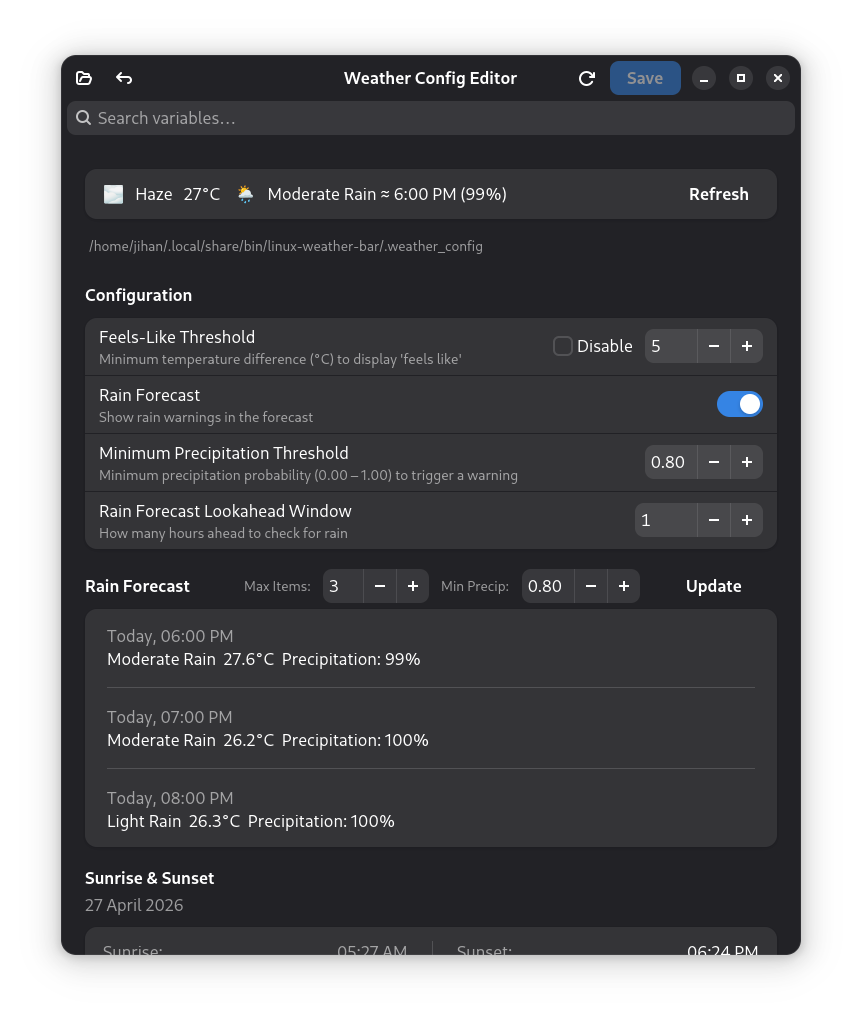
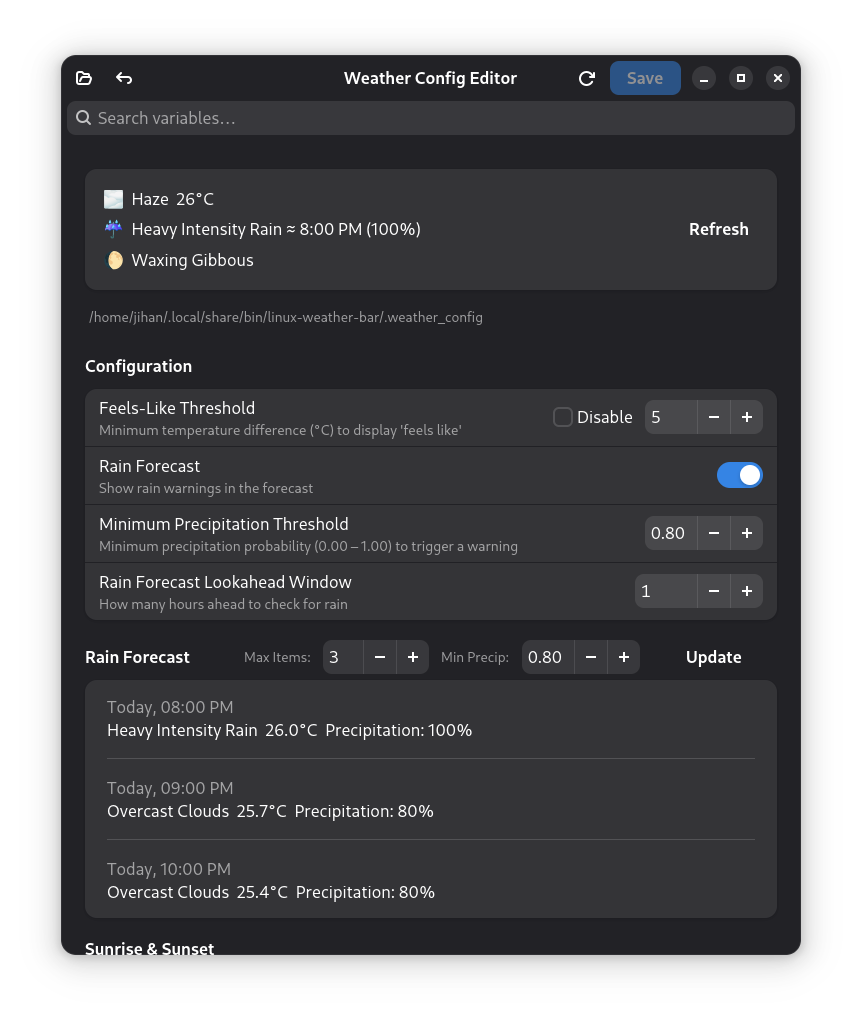
feat(output): enhance weather output formatting with emoji segmentation

diff --git a/weather_config_editor.py b/weather_config_editor.py
@@ -2837,6 +2837,47 @@ class WeatherConfigWindow(Adw.ApplicationWindow):
 
     # ── Weather Output section ────────────────────────────────────────────────
 
+    # All emojis that can appear at the start of a weather-bar segment.
+    # Covers every icon in WEATHER_ICONS plus all 8 MOON_PHASE_EMOJIS.
+    _WEATHER_EMOJI_PATTERN: re.Pattern = re.compile(
+        r'\s+(?='
+        # Moon phase emojis (🌑–🌘)
+        r'[\U0001F311-\U0001F318]'
+        r'|[☀⛅☁🌧🌦⛈❄🌫🌕☔]'
+        r')'
+    )
+
+    @staticmethod
+    def _format_weather_output(raw: str) -> str:
+        """
+        Split a flat weather-bar output string into one segment per line,
+        where each segment begins with an emoji.
+
+        Input:
+            "🌫  Haze  26°C    ☔  Heavy Intensity Rain ≈ 7:00 PM (100%)    🌔  Waxing Gibbous"
+        Output:
+            "🌫  Haze  26°C\n☔  Heavy Intensity Rain ≈ 7:00 PM (100%)\n🌔  Waxing Gibbous"
+
+        Lines that do not start with a known emoji are left in place (e.g.
+        error strings like "(script not found)") and returned unchanged.
+        """
+        # All emojis that may appear at the start of a weather-bar segment.
+        # Covers every icon in WEATHER_ICONS plus all 8 MOON_PHASE_EMOJIS.
+        pattern = re.compile(
+            r'\s+(?='
+            # Moon phase emojis 🌑 U+1F311 … 🌘 U+1F318
+            r'[\U0001F311-\U0001F318]'
+            # Explicit weather icons (some are multi-codepoint with VS-16 )
+            r'|[☀⛅☁🌧🌦⛈❄🌫🌕☔]'
+            r')'
+        )
+        segments = pattern.split(raw)
+        lines = [seg.strip() for seg in segments if seg.strip()]
+        # If splitting produced nothing useful, return raw unchanged
+        joined = "\n".join(lines) if lines else raw
+        # Wrap in span with line_height attribute
+        return f'<span line_height="1.5">{joined}</span>'
+
     def _run_weather_script_for_output(self) -> str:
         """Run the .sh script found next to this file, return its stdout or an error message."""
         script = self._find_weather_script()
@@ -2868,17 +2909,20 @@ class WeatherConfigWindow(Adw.ApplicationWindow):
         row = Adw.ActionRow()
         row.set_activatable(False)
 
-        # Output label — left-aligned, monospace-friendly, wrapping
+        # Output label — left-aligned, wraps on newlines from _format_weather_output
         output_label = Gtk.Label(label="")
         output_label.set_halign(Gtk.Align.START)
         output_label.set_hexpand(True)
         output_label.set_valign(Gtk.Align.CENTER)
         output_label.set_wrap(True)
+        output_label.set_wrap_mode(Pango.WrapMode.WORD_CHAR)
         output_label.set_xalign(0.0)
+        output_label.set_lines(-1)
+        output_label.set_use_markup(True)  # <-- here
         output_label.set_margin_start(16)
         output_label.set_margin_end(8)
-        output_label.set_margin_top(10)
-        output_label.set_margin_bottom(10)
+        output_label.set_margin_top(12)
+        output_label.set_margin_bottom(12)
         self._weather_output_label = output_label
 
         # Update button — inline at the end of the row
@@ -2900,7 +2944,9 @@ class WeatherConfigWindow(Adw.ApplicationWindow):
 
             def _apply(output: str) -> bool:
                 if self._weather_output_label:
-                    self._weather_output_label.set_label(output)
+                    self._weather_output_label.set_label(
+                        self._format_weather_output(output)
+                    )
                 btn.set_label("Update")
                 btn.set_sensitive(True)
                 return False
@@ -2925,7 +2971,9 @@ class WeatherConfigWindow(Adw.ApplicationWindow):
 
         def _initial_apply(output: str) -> bool:
             if self._weather_output_label:
-                self._weather_output_label.set_label(output)
+                self._weather_output_label.set_label(
+                    self._format_weather_output(output)
+                )
             return False
 
         threading.Thread(target=_initial_worker, daemon=True).start()
@@ -3684,7 +3732,11 @@ class WeatherConfigWindow(Adw.ApplicationWindow):
 
                 def _refresh_output() -> None:
                     output = self._run_weather_script_for_output()
-                    GLib.idle_add(lambda: lbl.set_label(output) or False)
+                    GLib.idle_add(
+                        lambda: lbl.set_label(
+                            self._format_weather_output(output)
+                        ) or False
+                    )
 
                 threading.Thread(target=_refresh_output, daemon=True).start()
 
